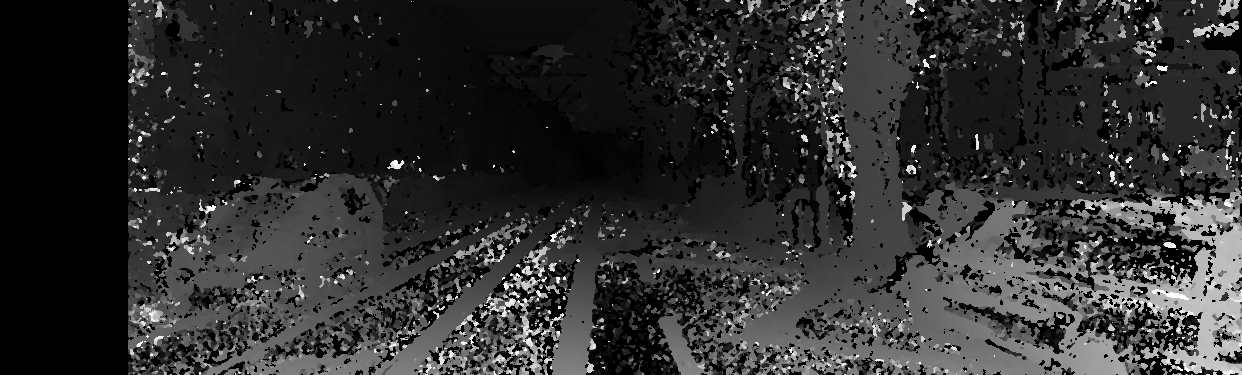
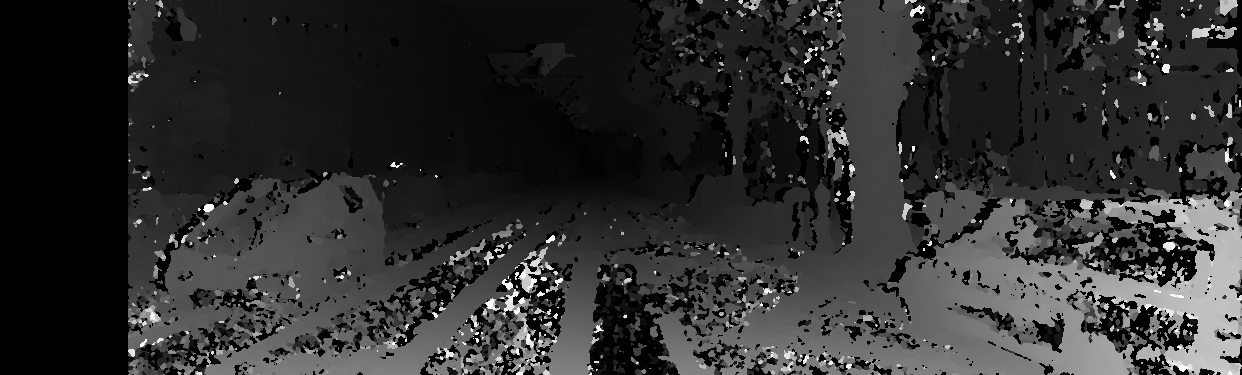
Add deistance

diff --git a/src/detect_and_disparity.py b/src/detect_and_disparity.py
@@ -15,45 +15,66 @@ right_gray = cv2.imread(
     cv2.IMREAD_GRAYSCALE
 )
 
+# stereo matching
 stereo = cv2.StereoSGBM_create(
     minDisparity=0,
-    numDisparities=16 * 8,
-    blockSize=5
+    numDisparities=16*8,
+    blockSize=9
 )
-
 disparity = stereo.compute(
     left_gray,
     right_gray
 )
 
+# convert disparity image
+disp_vis = cv2.normalize(
+    disparity,
+    None,
+    0,
+    255,
+    cv2.NORM_MINMAX
+)
+
+disp_vis = disp_vis.astype("uint8")
+
+cv2.imwrite(
+    "outputs/disparity.png",
+    disp_vis
+)
+
+# detection
 model = YOLO("yolo26n.pt")
-
 results = model(left_color)
-
-result_img = results[0].plot()
+result_image = results[0].plot()
 
 for box in results[0].boxes:
-
     class_id = int(box.cls)
     name = results[0].names[class_id]
 
     if name != "car":
         continue
 
+    confidence = float(box.conf)
     x1, y1, x2, y2 = map(int, box.xyxy[0])
-
     cx = int((x1 + x2) / 2)
     cy = int((y1 + y2) / 2)
 
     disp = disparity[cy, cx] / 16.0
 
+    if disp > 0:
+        depth = (721.5377 * 0.54) / disp
+    else:
+        disp = -1
+
     print(
+        f"confidence={confidence:.3f}"
         f"car center=({cx},{cy}) "
         f"disparity={disp:.2f}"
+        f"depth={depth:.2f}m"
     )
 
     cv2.circle(
-        result_img,
+        result_image,
         (cx, cy),
         5,
         (0, 0, 255),
@@ -62,7 +83,7 @@ for box in results[0].boxes:
 
 cv2.imwrite(
     "outputs/car_disparity.png",
-    result_img
+    result_image
 )
 
 print("saved")